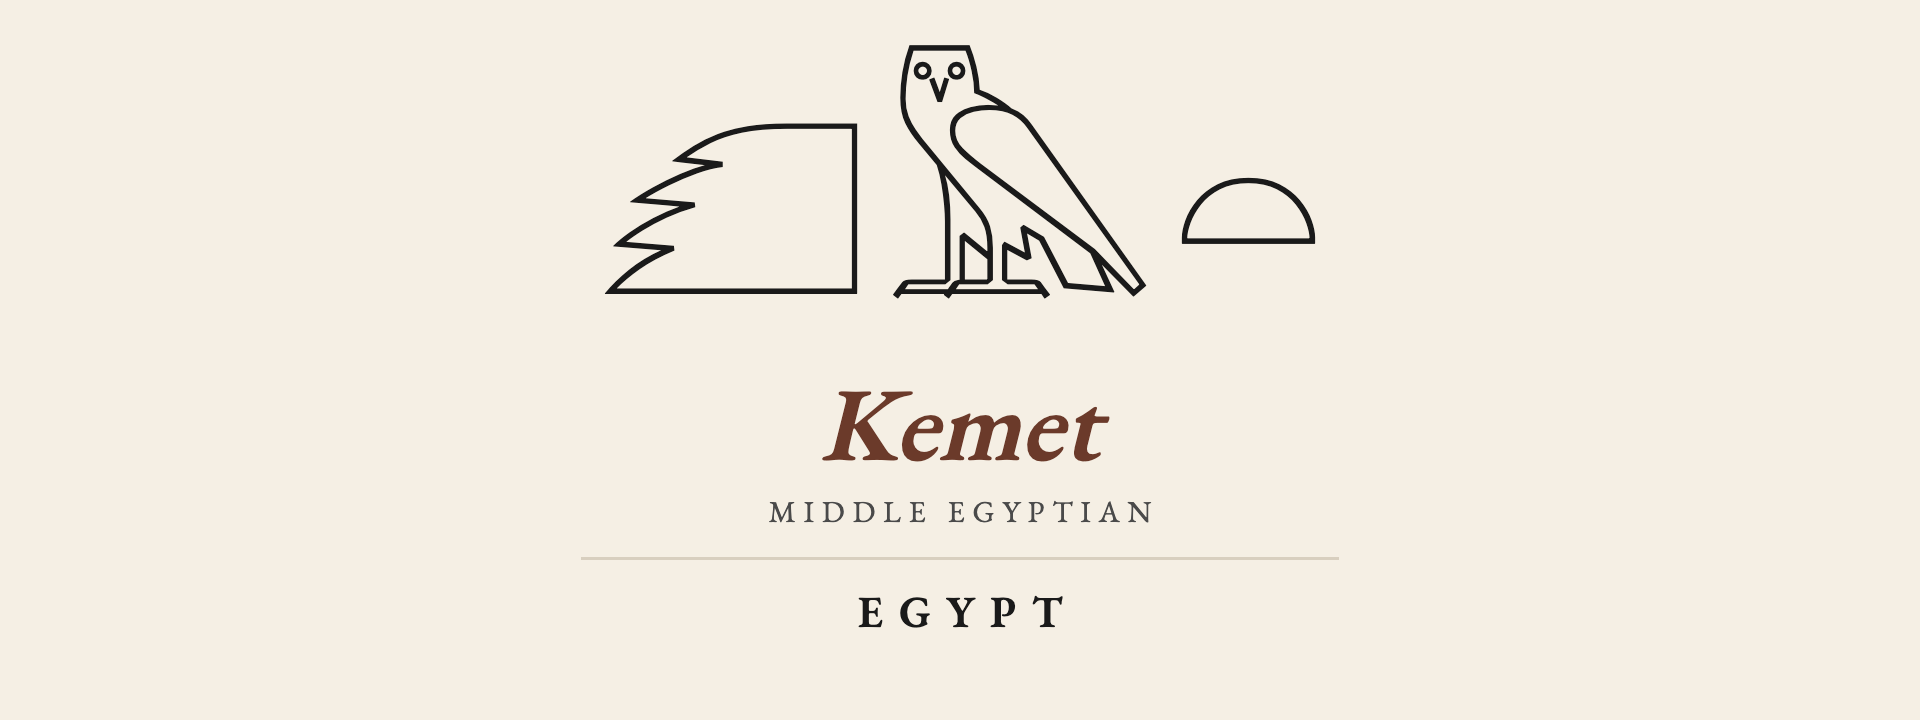
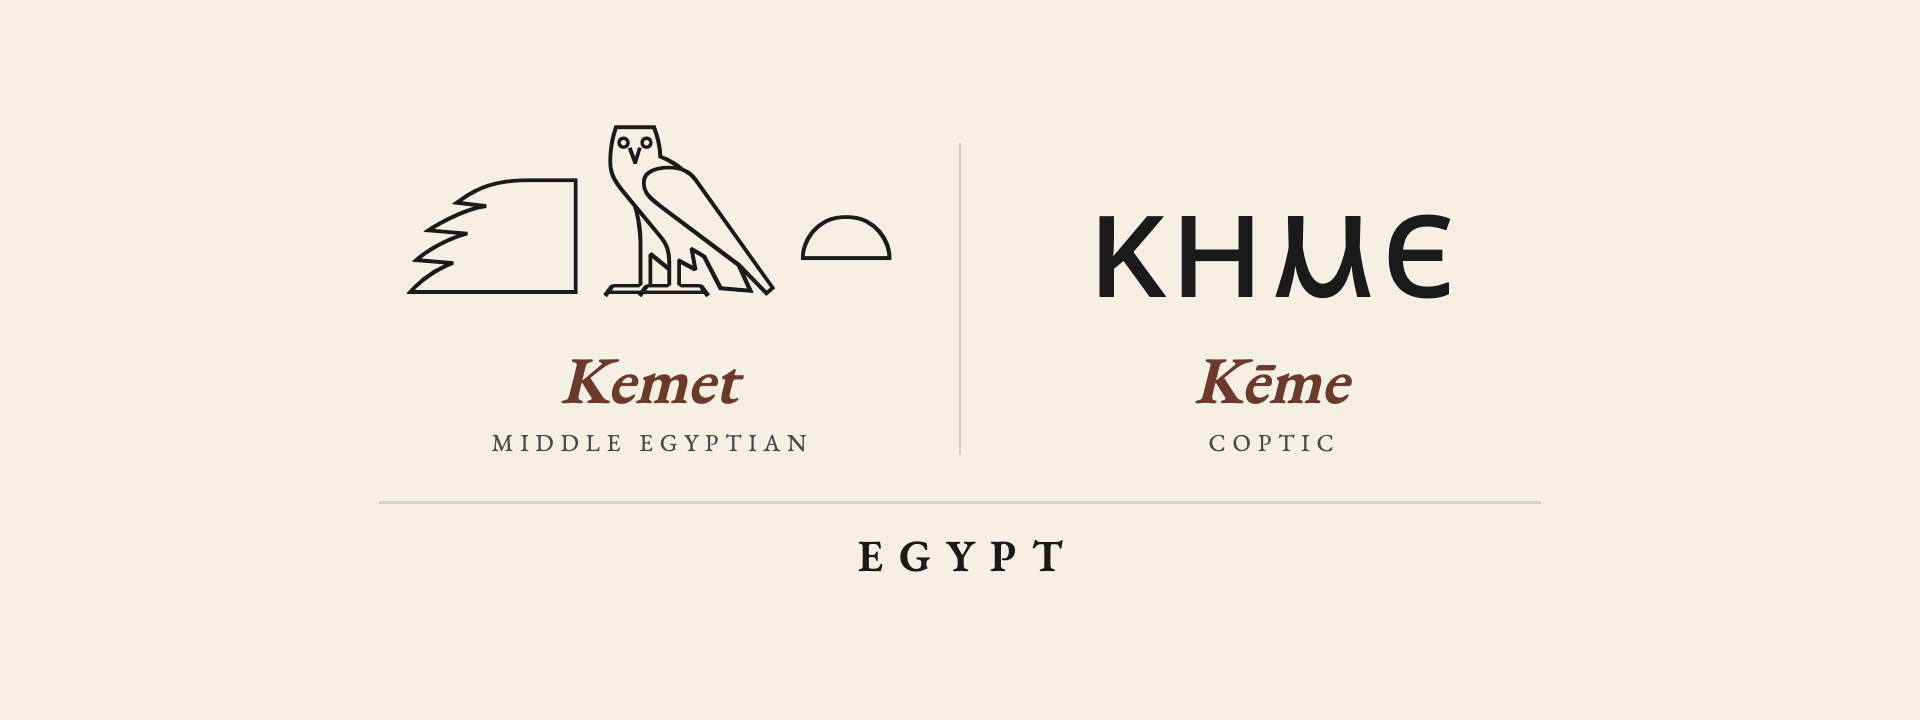
Adopt the dual title card for Egypt (km.t + Kēme)
Egypt's dual card is the "arc" flavor — the same self-name across two script
stages: Middle Egyptian km.t (hieroglyphs) beside Coptic Kēme. The Demotic kmy
middle stage is omitted, as it has no usable Unicode glyph. Wire the Noto Sans
Coptic font into DualTitleCard and re-render egypt-title.png.

diff --git a/videos/src/DualTitleCard.tsx b/videos/src/DualTitleCard.tsx
@@ -4,6 +4,7 @@ import { loadFont as loadGaramond } from "@remotion/google-fonts/EBGaramond";
 import { loadFont as loadHieroglyphs } from "@remotion/google-fonts/NotoSansEgyptianHieroglyphs";
 import { loadFont as loadOldPersian } from "@remotion/google-fonts/NotoSansOldPersian";
 import { loadFont as loadPahlavi } from "@remotion/google-fonts/NotoSansInscriptionalPahlavi";
+import { loadFont as loadCoptic } from "@remotion/google-fonts/NotoSansCoptic";
 
 // PROTOTYPE — a two-column title card for entities with multiple endonyms across
 // time periods (e.g. Persia: Old Persian Pārsa and Middle Persian Ērān). Each
@@ -18,6 +19,7 @@ const { fontFamily: garamond } = loadGaramond("normal", {
 const { fontFamily: hieroglyphs } = loadHieroglyphs("normal", { weights: ["400"], subsets: ["egyptian-hieroglyphs"] });
 const { fontFamily: oldPersian } = loadOldPersian("normal", { weights: ["400"], subsets: ["old-persian"] });
 const { fontFamily: pahlavi } = loadPahlavi("normal", { weights: ["400"], subsets: ["inscriptional-pahlavi"] });
+const { fontFamily: coptic } = loadCoptic("normal", { weights: ["400"], subsets: ["coptic"] });
 
 const PARCHMENT = "#f5efe4";
 const INK = "#1a1a1a";
@@ -31,6 +33,7 @@ const SCRIPTS = {
   "egyptian-hieroglyphs": { fontFamily: hieroglyphs, fontSize: 168, letterSpacing: 10 },
   "old-persian": { fontFamily: oldPersian, fontSize: 140, letterSpacing: 10 },
   "inscriptional-pahlavi": { fontFamily: pahlavi, fontSize: 140, letterSpacing: 8 },
+  coptic: { fontFamily: coptic, fontSize: 150, letterSpacing: 2 },
   greek: { fontFamily: garamond, fontSize: 150, letterSpacing: 0 },
   latin: { fontFamily: garamond, fontSize: 132, letterSpacing: 0 },
 } as const;
